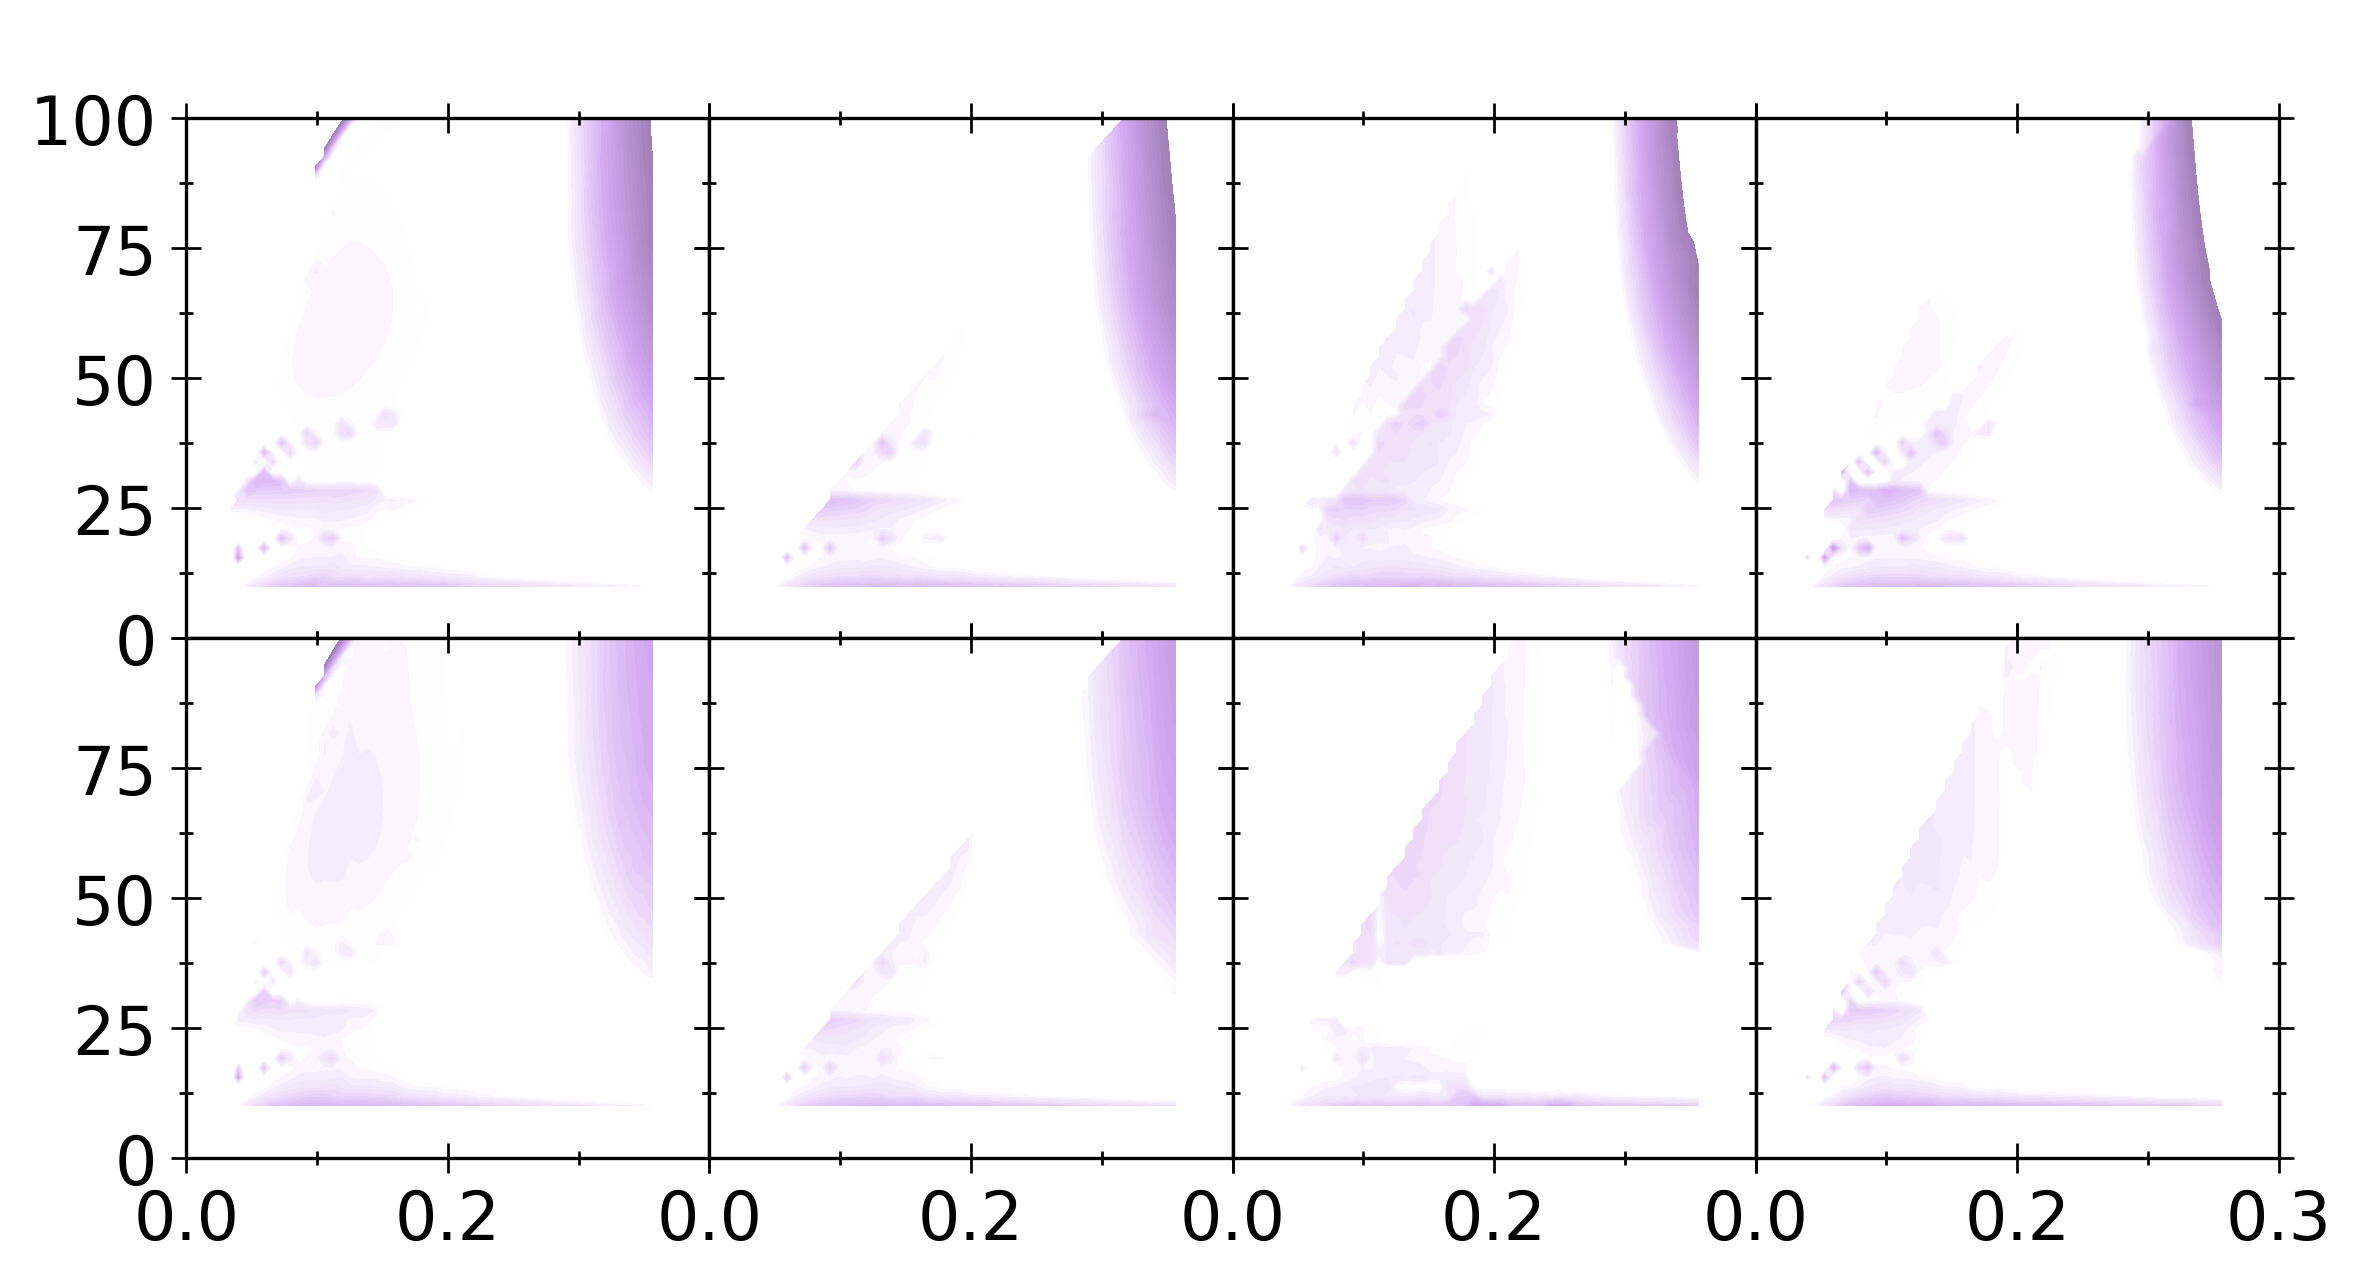
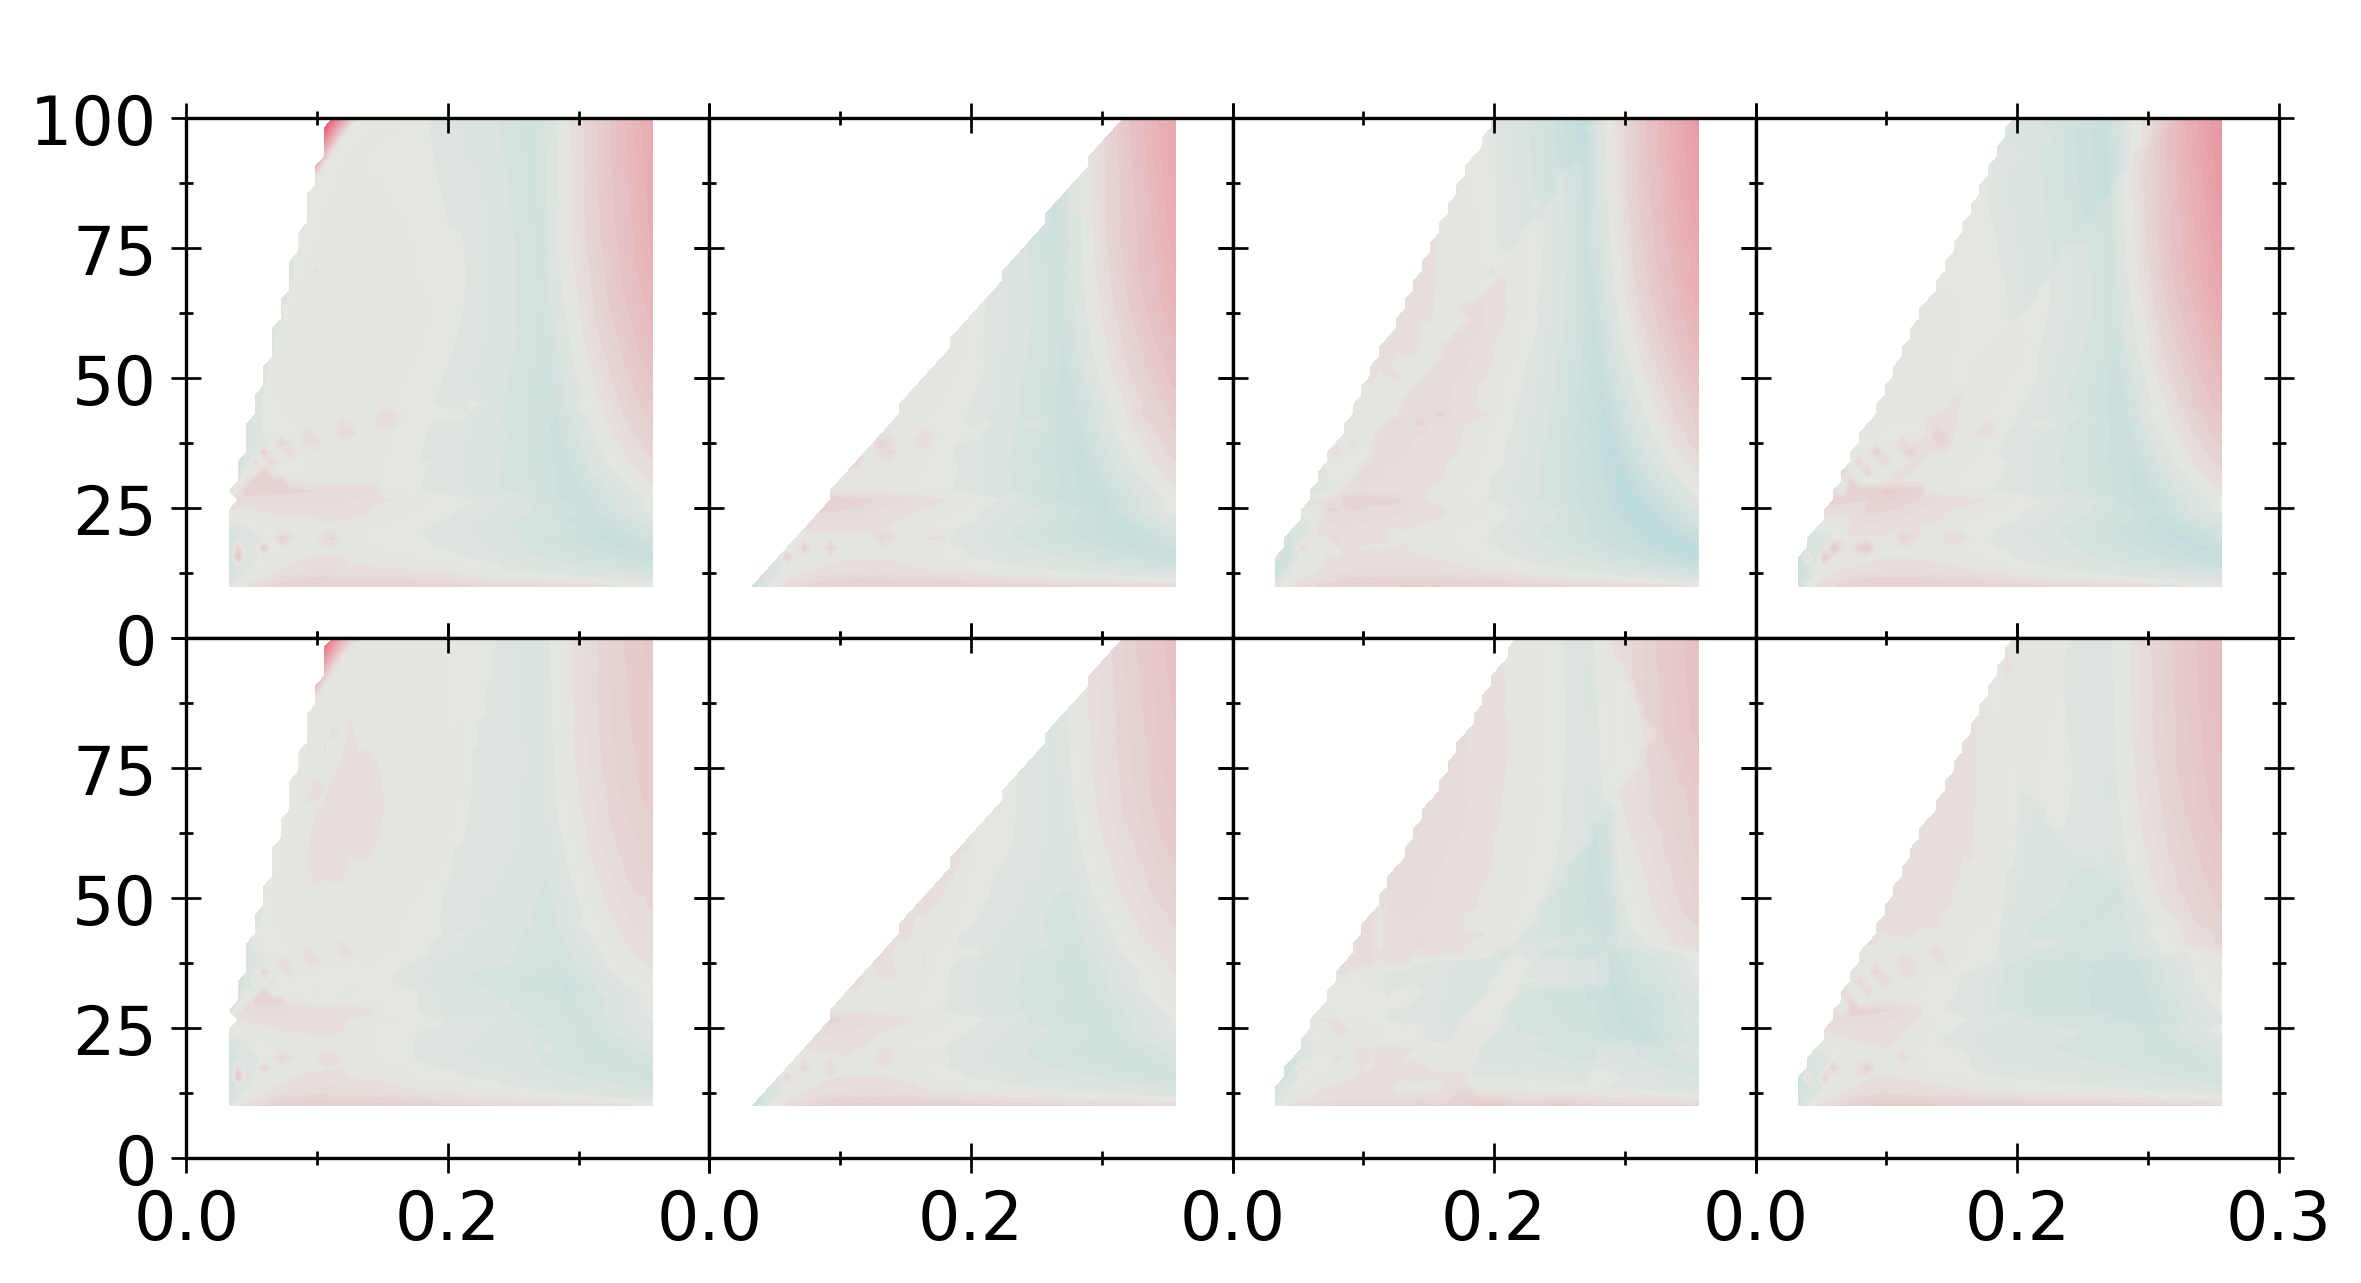
improve residual plot ranges and cmap

diff --git a/fermentation_insights/generate_plots/residual_MPSP_TRY_multipanel_plots/baseline_productivities/TAL_all_resMPSP_TRY_fit_plot.py b/fermentation_insights/generate_plots/residual_MPSP_TRY_multipanel_plots/baseline_productivities/TAL_all_resMPSP_TRY_fit_plot.py
@@ -14,7 +14,7 @@ from  matplotlib.colors import LinearSegmentedColormap
 
 #%%
 
-def GG_purple_white_colormap(N_levels=90):
+def GG_blue_gray_red_colormap(N_levels=90):
     """
     Return a matplotlib.colors.LinearSegmentedColormap object
     that serves as CABBI's green colormap theme for contour plots.
@@ -30,10 +30,11 @@ def GG_purple_white_colormap(N_levels=90):
                    # (99, 198, 206), # GG blue
                    # (138, 227, 235),# lighter GG blue
                    
-                   (255, 255, 255), # white
+                   # (255, 255, 255), # white
                    
-                   (212, 168, 242), # lighter GG purple
-                   (162, 128, 185), # GG purple
+                   (96, 193, 207), # GG blue
+                   (228, 230, 225), # lighter GG gray
+                   (237, 88, 111), # GG red
                    ))/255
     
     return LinearSegmentedColormap.from_list('CABBI', cmap_colors, N_levels)
@@ -105,6 +106,9 @@ def get_w_ticks_from_percentiles(w_array, w_levels, percentiles=(25, 50, 75), cb
 
 #%% Plot
 
+
+min_min = np.inf
+max_max = - np.inf
 
 for i, product_ID in zip(range(len(product_IDs)), product_IDs):
     axs_list = None
@@ -245,8 +249,8 @@ for i, product_ID in zip(range(len(product_IDs)), product_IDs):
         
         #################
         
-        resMPSPfrac_w_levels = np.arange(0, 0.0601, 0.0025)
-        resMPSPfrac_cbar_ticks = np.arange(0, 0.0601, 0.01)
+        resMPSPfrac_w_levels = np.arange(-0.15, 0.1501, 0.005)
+        resMPSPfrac_cbar_ticks = np.arange(-0.15, 0.1501, 0.01)
         # resMPSPfrac_w_ticks = [0, 0.025, 0.05, 0.1, 0.15, 0.2, 0.4, 0.6, 0.8, 1.]
         resMPSPfrac_w_ticks = []
         
@@ -277,7 +281,7 @@ for i, product_ID in zip(range(len(product_IDs)), product_IDs):
                                         w_units=resMPSPfrac_units,
                                         # fmt_clabel=lambda cvalue: r"$\mathrm{\$}$"+" {:.1f} ".format(cvalue)+r"$\cdot\mathrm{kg}^{-1}$", # format of contour labels
                                         fmt_clabel = lambda cvalue: get_rounded_str(cvalue, 2),
-                                        cmap=GG_purple_white_colormap(), # can use 'viridis' or other default matplotlib colormaps
+                                        cmap=GG_blue_gray_red_colormap(), # can use 'viridis' or other default matplotlib colormaps
                                         cmap_over_color = colors.grey_dark.shade(8).RGBn,
                                         extend_cmap='neither',
                                         cbar_ticks=resMPSPfrac_cbar_ticks,
@@ -340,6 +344,24 @@ for i, product_ID in zip(range(len(product_IDs)), product_IDs):
         #         # verticalalignment='top', 
         #         bbox=props)
         
+        # Statistics
+        print(product_ID, feedstock_ID)
+        non_nan_vals = results_metric_1[np.where(~np.isnan((results_metric_1)))]
+        print(f'Mean abs: {np.mean(np.abs(non_nan_vals))}')
+        print(f'Median abs: {np.median(np.abs(non_nan_vals))}')
+        print(f'5th perc abs: {np.percentile(np.abs(non_nan_vals), 5)}')
+        print(f'95th perc abs: {np.percentile(np.abs(non_nan_vals), 95)}')
+        print(f'Min abs: {np.min(np.abs(non_nan_vals))}')
+        print(f'Max abs: {np.max(np.abs(non_nan_vals))}')
+        print(f'Min: {np.min(non_nan_vals)}')
+        print(f'Max: {np.max(non_nan_vals)}')
+        if np.min(non_nan_vals) < min_min: 
+            min_min = np.min(non_nan_vals)
+        if np.max(non_nan_vals) > max_max: 
+            max_max = np.max(non_nan_vals)
+
+print(f'\nOverall min and max are {min_min} and {max_max}, respectively.\n\n')
+
 #%%
 plt.subplots_adjust(wspace=0, hspace=0)
 # fig.set_figheight(8.5)
@@ -360,8 +382,8 @@ default_fontsize = 11.
 clabel_fontsize = 9.5
 axis_tick_fontsize = 9.5
 
-resMPSPfrac_w_levels = np.arange(0, 0.0601, 0.0025)
-resMPSPfrac_cbar_ticks = np.arange(0, 0.0601, 0.01)
+resMPSPfrac_w_levels = np.arange(-0.15, 0.1501, 0.005)
+resMPSPfrac_cbar_ticks = np.arange(-0.15, 0.1501, 0.03)
 # resMPSPfrac_w_ticks = [0, 0.025, 0.05, 0.1, 0.15, 0.2, 0.4, 0.6, 0.8, 1.]
 resMPSPfrac_w_ticks = []
 
@@ -385,7 +407,7 @@ contourplots.animated_contourplot(w_data_vs_x_y_at_multiple_z=resMPSPfrac_array,
                                 w_units=resMPSPfrac_units,
                                 # fmt_clabel=lambda cvalue: r"$\mathrm{\$}$"+" {:.1f} ".format(cvalue)+r"$\cdot\mathrm{kg}^{-1}$", # format of contour labels
                                 fmt_clabel = lambda cvalue: get_rounded_str(cvalue, 3),
-                                cmap=GG_purple_white_colormap(), # can use 'viridis' or other default matplotlib colormaps
+                                cmap=GG_blue_gray_red_colormap(), # can use 'viridis' or other default matplotlib colormaps
                                 cmap_over_color = colors.grey_dark.shade(8).RGBn,
                                 extend_cmap='neither',
                                 cbar_ticks=resMPSPfrac_cbar_ticks,
@@ -400,7 +422,7 @@ contourplots.animated_contourplot(w_data_vs_x_y_at_multiple_z=resMPSPfrac_array,
                                 axis_tick_fontsize = axis_tick_fontsize,
                                 # comparison_range=market_range,
                                 n_minor_ticks = 1,
-                                cbar_n_minor_ticks = 3,
+                                cbar_n_minor_ticks = 2,
                                 # manual_clabels_regular = {
                                 #     resMPSPfrac_w_ticks[5]: (45,28),
                                 #     },

diff --git a/fermentation_insights/generate_plots/residual_MPSP_TRY_multipanel_plots/baseline_productivities/succinic_resMPSP_TRY_fit_plot.py b/fermentation_insights/generate_plots/residual_MPSP_TRY_multipanel_plots/baseline_productivities/succinic_resMPSP_TRY_fit_plot.py
@@ -14,7 +14,7 @@ from  matplotlib.colors import LinearSegmentedColormap
 
 #%%
 
-def GG_purple_white_colormap(N_levels=90):
+def GG_blue_gray_red_colormap(N_levels=90):
     """
     Return a matplotlib.colors.LinearSegmentedColormap object
     that serves as CABBI's green colormap theme for contour plots.
@@ -30,10 +30,11 @@ def GG_purple_white_colormap(N_levels=90):
                    # (99, 198, 206), # GG blue
                    # (138, 227, 235),# lighter GG blue
                    
-                   (255, 255, 255), # white
+                   # (255, 255, 255), # white
                    
-                   (212, 168, 242), # lighter GG purple
-                   (162, 128, 185), # GG purple
+                   (96, 193, 207), # GG blue
+                   (228, 230, 225), # lighter GG gray
+                   (237, 88, 111), # GG red
                    ))/255
     
     return LinearSegmentedColormap.from_list('CABBI', cmap_colors, N_levels)
@@ -104,6 +105,9 @@ def get_w_ticks_from_percentiles(w_array, w_levels, percentiles=(25, 50, 75), cb
     return w_ticks_refined
 
 #%% Plot
+
+min_min = np.inf
+max_max = - np.inf
 
 for i, product_ID in zip(range(len(product_IDs)), product_IDs):
     axs_list = None
@@ -242,8 +246,8 @@ for i, product_ID in zip(range(len(product_IDs)), product_IDs):
         
         #################
         
-        resMPSPfrac_w_levels = np.arange(0, 0.0601, 0.0025)
-        resMPSPfrac_cbar_ticks = np.arange(0, 0.0601, 0.01)
+        resMPSPfrac_w_levels = np.arange(-0.15, 0.1501, 0.005)
+        resMPSPfrac_cbar_ticks = np.arange(-0.15, 0.1501, 0.01)
         # resMPSPfrac_w_ticks = [0, 0.025, 0.05, 0.1, 0.15, 0.2, 0.4, 0.6, 0.8, 1.]
         resMPSPfrac_w_ticks = []
         
@@ -274,7 +278,7 @@ for i, product_ID in zip(range(len(product_IDs)), product_IDs):
                                         w_units=resMPSPfrac_units,
                                         # fmt_clabel=lambda cvalue: r"$\mathrm{\$}$"+" {:.1f} ".format(cvalue)+r"$\cdot\mathrm{kg}^{-1}$", # format of contour labels
                                         fmt_clabel = lambda cvalue: get_rounded_str(cvalue, 2),
-                                        cmap=GG_purple_white_colormap(), # can use 'viridis' or other default matplotlib colormaps
+                                        cmap=GG_blue_gray_red_colormap(), # can use 'viridis' or other default matplotlib colormaps
                                         cmap_over_color = colors.grey_dark.shade(8).RGBn,
                                         extend_cmap='neither',
                                         cbar_ticks=resMPSPfrac_cbar_ticks,
@@ -337,6 +341,24 @@ for i, product_ID in zip(range(len(product_IDs)), product_IDs):
         #         # verticalalignment='top', 
         #         bbox=props)
         
+        # Statistics
+        print(product_ID, feedstock_ID)
+        non_nan_vals = results_metric_1[np.where(~np.isnan((results_metric_1)))]
+        print(f'Mean abs: {np.mean(np.abs(non_nan_vals))}')
+        print(f'Median abs: {np.median(np.abs(non_nan_vals))}')
+        print(f'5th perc abs: {np.percentile(np.abs(non_nan_vals), 5)}')
+        print(f'95th perc abs: {np.percentile(np.abs(non_nan_vals), 95)}')
+        print(f'Min abs: {np.min(np.abs(non_nan_vals))}')
+        print(f'Max abs: {np.max(np.abs(non_nan_vals))}')
+        print(f'Min: {np.min(non_nan_vals)}')
+        print(f'Max: {np.max(non_nan_vals)}')
+        if np.min(non_nan_vals) < min_min: 
+            min_min = np.min(non_nan_vals)
+        if np.max(non_nan_vals) > max_max: 
+            max_max = np.max(non_nan_vals)
+
+print(f'\nOverall min and max are {min_min} and {max_max}, respectively.\n\n')
+
 #%%
 plt.subplots_adjust(wspace=0, hspace=0)
 fig.set_figheight(8.5)

diff --git a/fermentation_insights/generate_plots/residual_MPSP_TRY_multipanel_plots/baseline_productivities/HP_all_resMPSP_TRY_fit_plot.py b/fermentation_insights/generate_plots/residual_MPSP_TRY_multipanel_plots/baseline_productivities/HP_all_resMPSP_TRY_fit_plot.py
@@ -14,7 +14,7 @@ from  matplotlib.colors import LinearSegmentedColormap
 
 #%%
 
-def GG_purple_white_colormap(N_levels=90):
+def GG_blue_gray_red_colormap(N_levels=90):
     """
     Return a matplotlib.colors.LinearSegmentedColormap object
     that serves as CABBI's green colormap theme for contour plots.
@@ -30,10 +30,11 @@ def GG_purple_white_colormap(N_levels=90):
                    # (99, 198, 206), # GG blue
                    # (138, 227, 235),# lighter GG blue
                    
-                   (255, 255, 255), # white
+                   # (255, 255, 255), # white
                    
-                   (212, 168, 242), # lighter GG purple
-                   (162, 128, 185), # GG purple
+                   (96, 193, 207), # GG blue
+                   (228, 230, 225), # lighter GG gray
+                   (237, 88, 111), # GG red
                    ))/255
     
     return LinearSegmentedColormap.from_list('CABBI', cmap_colors, N_levels)
@@ -105,6 +106,9 @@ def get_w_ticks_from_percentiles(w_array, w_levels, percentiles=(25, 50, 75), cb
 
 #%% Plot
 
+
+min_min = np.inf
+max_max = - np.inf
 
 for i, product_ID in zip(range(len(product_IDs)), product_IDs):
     axs_list = None
@@ -243,8 +247,8 @@ for i, product_ID in zip(range(len(product_IDs)), product_IDs):
         
         #################
         
-        resMPSPfrac_w_levels = np.arange(0, 0.0601, 0.0025)
-        resMPSPfrac_cbar_ticks = np.arange(0, 0.0601, 0.01)
+        resMPSPfrac_w_levels = np.arange(-0.15, 0.1501, 0.005)
+        resMPSPfrac_cbar_ticks = np.arange(-0.15, 0.1501, 0.01)
         # resMPSPfrac_w_ticks = [0, 0.025, 0.05, 0.1, 0.15, 0.2, 0.4, 0.6, 0.8, 1.]
         resMPSPfrac_w_ticks = []
         
@@ -275,7 +279,7 @@ for i, product_ID in zip(range(len(product_IDs)), product_IDs):
                                         w_units=resMPSPfrac_units,
                                         # fmt_clabel=lambda cvalue: r"$\mathrm{\$}$"+" {:.1f} ".format(cvalue)+r"$\cdot\mathrm{kg}^{-1}$", # format of contour labels
                                         fmt_clabel = lambda cvalue: get_rounded_str(cvalue, 2),
-                                        cmap=GG_purple_white_colormap(), # can use 'viridis' or other default matplotlib colormaps
+                                        cmap=GG_blue_gray_red_colormap(), # can use 'viridis' or other default matplotlib colormaps
                                         cmap_over_color = colors.grey_dark.shade(8).RGBn,
                                         extend_cmap='both',
                                         cbar_ticks=resMPSPfrac_cbar_ticks,
@@ -338,6 +342,24 @@ for i, product_ID in zip(range(len(product_IDs)), product_IDs):
         #         # verticalalignment='top', 
         #         bbox=props)
         
+        # Statistics
+        print(product_ID, feedstock_ID)
+        non_nan_vals = results_metric_1[np.where(~np.isnan((results_metric_1)))]
+        print(f'Mean abs: {np.mean(np.abs(non_nan_vals))}')
+        print(f'Median abs: {np.median(np.abs(non_nan_vals))}')
+        print(f'5th perc abs: {np.percentile(np.abs(non_nan_vals), 5)}')
+        print(f'95th perc abs: {np.percentile(np.abs(non_nan_vals), 95)}')
+        print(f'Min abs: {np.min(np.abs(non_nan_vals))}')
+        print(f'Max abs: {np.max(np.abs(non_nan_vals))}')
+        print(f'Min: {np.min(non_nan_vals)}')
+        print(f'Max: {np.max(non_nan_vals)}')
+        if np.min(non_nan_vals) < min_min: 
+            min_min = np.min(non_nan_vals)
+        if np.max(non_nan_vals) > max_max: 
+            max_max = np.max(non_nan_vals)
+
+print(f'\nOverall min and max are {min_min} and {max_max}, respectively.\n\n')
+
 #%%
 plt.subplots_adjust(wspace=0, hspace=0)
 fig.set_figheight(8.5)
